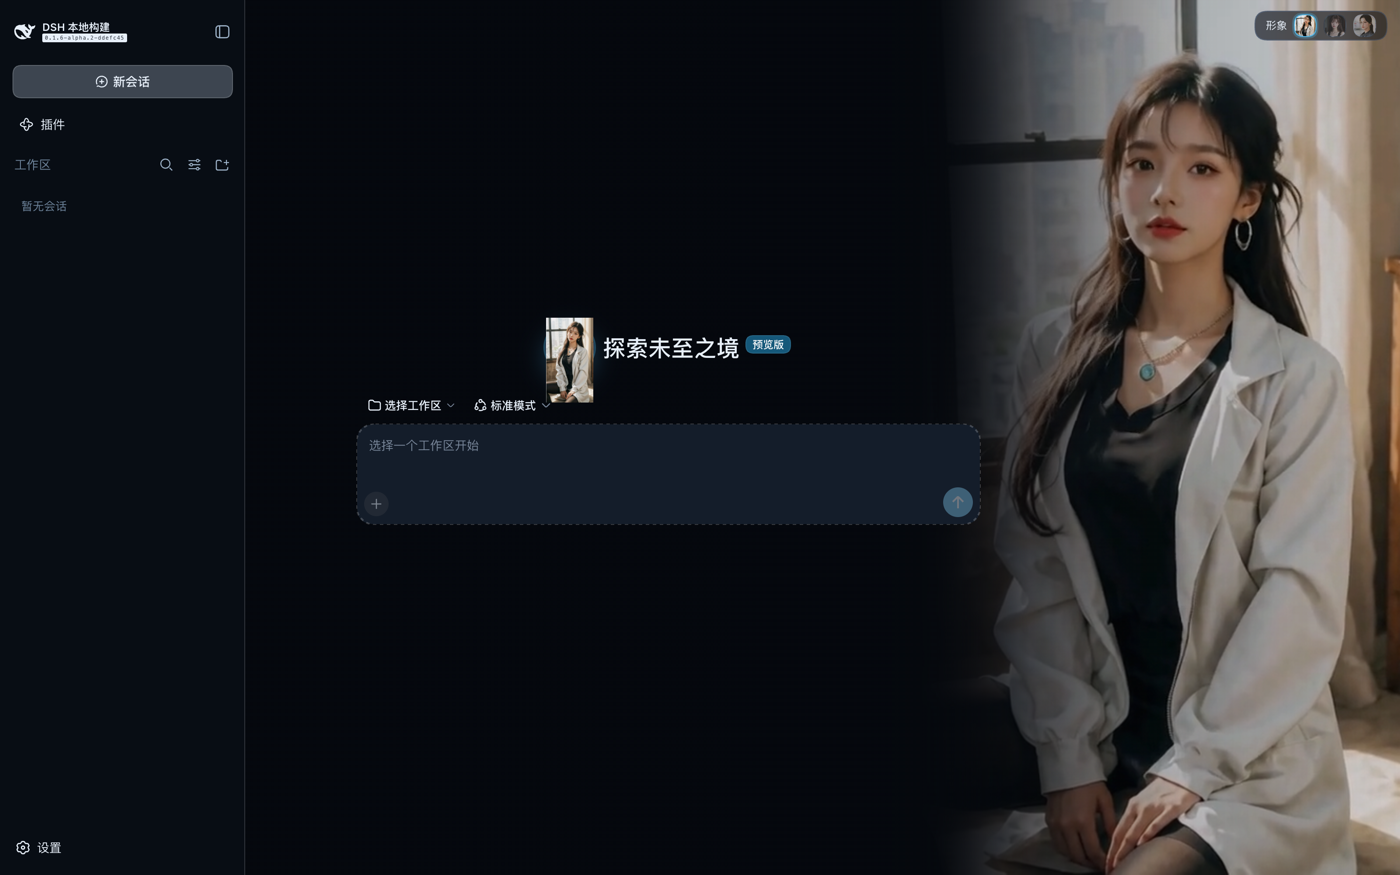
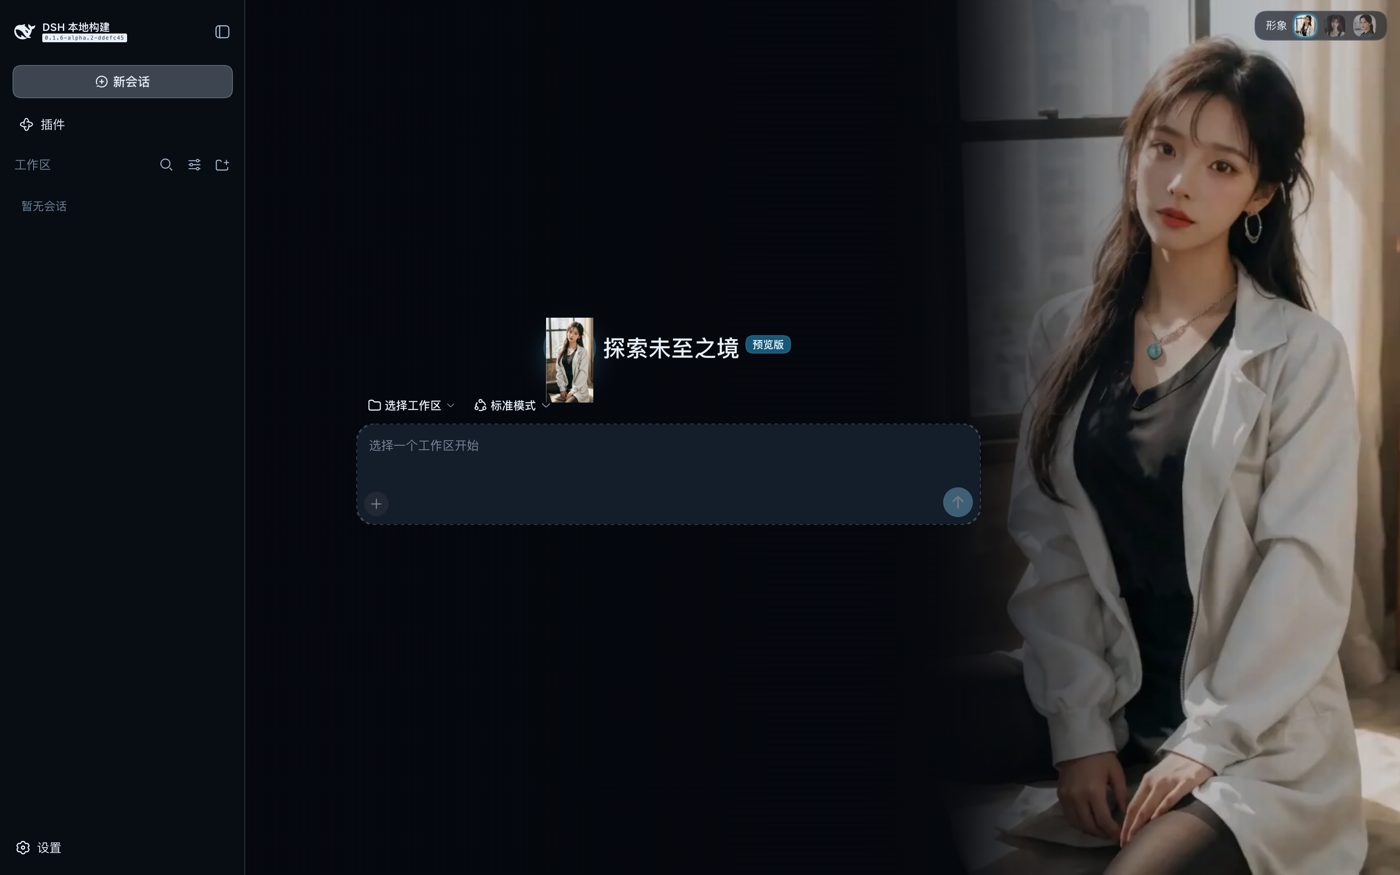
预览区补两张截图（形象切换前后 + 控件特写）
三张均取自没有会话记录的干净实例，侧栏只显示 DSH 品牌位与「暂无会话」，
不含会话标题、工作区路径或任何个人数据。

Changed region(s): [[0.7064, 0.0, 1.0, 1.0]]

diff --git a/README.md b/README.md
@@ -4,7 +4,15 @@
 
 不改 DSH 源码，以第三方插件形式叠在配置层上，卸载即还原。
 
-![预览](preview/preview-01.png)
+![总览](preview/preview-01.png)
+
+形象由文件名扫描发现，丢图进去就能切换 —— **同一套界面，换个人就是另一种气质**：
+
+| 形象 2 · 黑裙（切换后） | 形象切换控件与人物特写 |
+|:--:|:--:|
+| ![形象 2](preview/preview-02.png) | ![形象切换](preview/preview-03.jpg) |
+
+> 三张截图取自一个**没有会话记录的干净实例**：侧栏只有 DSH 品牌位与「暂无会话」，**不含任何个人数据**。
 
 ## 它做了什么
 
